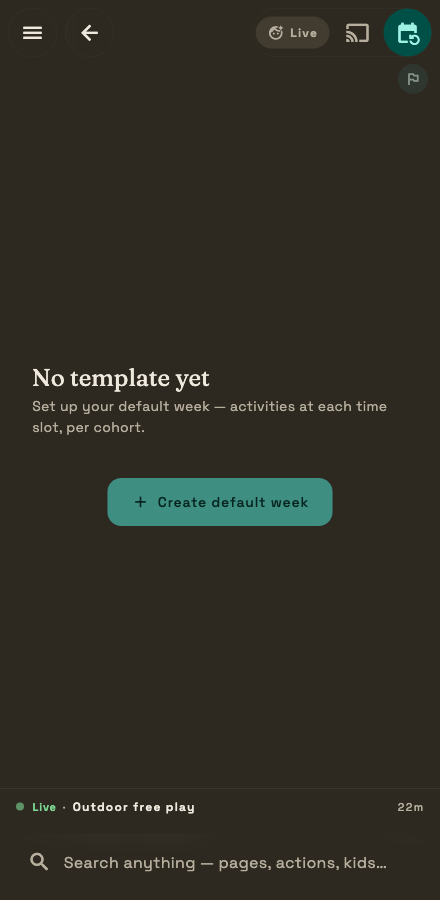
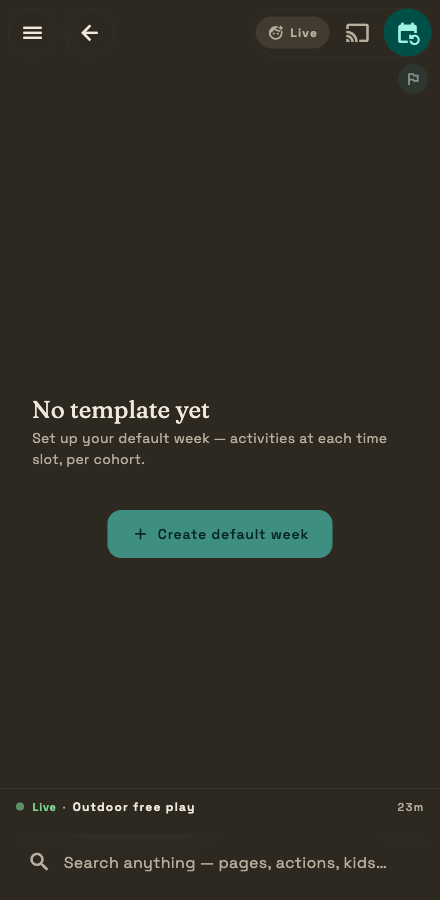
fix(layout): three more screens survive 200% text on a 320dp phone
Six screens overflowed at 320dp x 200%; three do now. Staged by name — the
peer session has an untracked game_view.dart in this shared tree and it is
deliberately not in here.

Done
- AccentEdgeCard: the eyebrow Row could not shrink its label, so the card ran
  past a 320dp phone by 25px on Today and 10px on the growth arc. Flexible, so
  it wraps. One defect in a SHARED widget rather than two screens — which is
  the only reason to keep asking what the chain actually names.
- message_thread: the privacy preamble is a fixed-height child above an
  Expanded list, so at 200% its three-line subtitle grew 188px past the screen
  and the list had nothing left to give. Capped at 40% of the viewport and
  scrollable inside that. NOT auto-hidden: it is a privacy notice, not
  decoration — it just stops being allowed to take the whole phone.
- weekly_template's empty state was a Center that cannot give ground, running
  100px past. FitOrScroll. Third instance of that exact shape today, after the
  routines empty state and the Cues stage: a centred Column sized for a
  comfortable viewport with nowhere to put the excess.

Verify
- Each fix re-swept immediately, so the six-to-three is measured rather than
  assumed: daily and growth_arc fell to the shared-widget fix, message_thread
  and weekly_template to their own.
- Against the peer's new main (80b923ce): analyze clean, 550 plates green,
  1494 unit + widget passing, five guards pass.
[…]

Changed region(s): [[0.0591, 0.4044, 0.7682, 0.6222], [0.5318, 0.4356, 0.8864, 0.4978]]

diff --git a/lib/features/messages/message_thread_screen.dart b/lib/features/messages/message_thread_screen.dart
@@ -144,49 +144,66 @@ class _MessageThreadScreenState extends ConsumerState<MessageThreadScreen> {
             // SizedBox needed.
             // Privacy preamble — collapsible to a single tap-to-expand
             // pill once the user has acknowledged it.
-            Padding(
-              padding: const EdgeInsets.symmetric(horizontal: 16),
-              child: _showPreamble
-                  ? Stack(
-                      children: [
-                        const ContentHeader(
-                          title: 'Messages',
-                          subtitle:
-                              'A direct line between family and staff for '
-                              "this child. Don't share medical specifics "
-                              "or anything you wouldn't put in writing.",
-                          bottomGap: 8,
-                        ),
-                        Positioned(
-                          top: 8,
-                          right: 0,
-                          child: IconButton(
-                            tooltip: 'Hide reminder',
-                            icon: const Icon(
-                              Icons.keyboard_arrow_up,
-                              size: 20,
+            // The preamble is a FIXED-height child above an Expanded list,
+            // so at 200% text its three-line subtitle grew 188px past the
+            // screen and the list — the thing the screen is actually for —
+            // had nothing left to give. Capped at 40% of the viewport and
+            // scrollable inside that: the privacy reminder is not dropped or
+            // auto-hidden (it is a notice, not decoration), it simply stops
+            // being allowed to take the whole phone.
+            ConstrainedBox(
+              constraints: BoxConstraints(
+                maxHeight: MediaQuery.sizeOf(context).height * 0.4,
+              ),
+              child: SingleChildScrollView(
+                child: Padding(
+                  padding: const EdgeInsets.symmetric(horizontal: 16),
+                  child: _showPreamble
+                      ? Stack(
+                          children: [
+                            const ContentHeader(
+                              title: 'Messages',
+                              subtitle:
+                                  'A direct line between family and staff for '
+                                  "this child. Don't share medical specifics "
+                                  "or anything you wouldn't put in writing.",
+                              bottomGap: 8,
                             ),
-                            onPressed: () =>
-                                setState(() => _showPreamble = false),
+                            Positioned(
+                              top: 8,
+                              right: 0,
+                              child: IconButton(
+                                tooltip: 'Hide reminder',
+                                icon: const Icon(
+                                  Icons.keyboard_arrow_up,
+                                  size: 20,
+                                ),
+                                onPressed: () =>
+                                    setState(() => _showPreamble = false),
+                              ),
+                            ),
+                          ],
+                        )
+                      : Padding(
+                          padding: const EdgeInsets.only(top: 8, bottom: 4),
+                          child: Row(
+                            children: [
+                              Text(
+                                'Messages',
+                                style: theme.textTheme.titleLarge,
+                              ),
+                              const Spacer(),
+                              IconButton(
+                                tooltip: 'Show reminder',
+                                icon: const Icon(Icons.info_outline, size: 20),
+                                onPressed: () =>
+                                    setState(() => _showPreamble = true),
+                              ),
+                            ],
                           ),
                         ),
-                      ],
-                    )
-                  : Padding(
-                      padding: const EdgeInsets.only(top: 8, bottom: 4),
-                      child: Row(
-                        children: [
-                          Text('Messages', style: theme.textTheme.titleLarge),
-                          const Spacer(),
-                          IconButton(
-                            tooltip: 'Show reminder',
-                            icon: const Icon(Icons.info_outline, size: 20),
-                            onPressed: () =>
-                                setState(() => _showPreamble = true),
-                          ),
-                        ],
-                      ),
-                    ),
+                ),
+              ),
             ),
             Expanded(
               child: messagesAsync.when(

diff --git a/lib/features/schedule/weekly_template_screen.dart b/lib/features/schedule/weekly_template_screen.dart
@@ -12,6 +12,7 @@ import 'package:differentworld/shared/widgets/destructive_button.dart';
 import 'package:differentworld/shared/widgets/edge_scaffold.dart';
 import 'package:differentworld/shared/widgets/empty_state.dart';
 import 'package:differentworld/shared/widgets/error_state.dart';
+import 'package:differentworld/shared/widgets/fit_or_scroll.dart';
 import 'package:differentworld/shared/widgets/glass_panel.dart';
 import 'package:differentworld/shared/widgets/no_access.dart';
 import 'package:differentworld/shared/widgets/primary_action_button.dart';
@@ -160,34 +161,38 @@ class _NoTemplate extends ConsumerWidget {
 
   @override
   Widget build(BuildContext context, WidgetRef ref) {
-    return Center(
-      child: Padding(
-        padding: const EdgeInsets.all(32),
-        child: Column(
-          mainAxisSize: MainAxisSize.min,
-          children: [
-            const ContentHeader(
-              title: 'No template yet',
-              subtitle:
-                  'Set up your default week — '
-                  'activities at each time slot, per cohort.',
-            ),
-            const SizedBox(height: 24),
-            FilledButton.icon(
-              icon: const Icon(Icons.add),
-              label: const Text('Create default week'),
-              onPressed: () async {
-                final viewer = ref.read(viewerProvider);
-                final db = await ref.read(appDatabaseProvider.future);
-                if (!context.mounted) return;
-                await db.weeklyTemplateDao.createTemplate(
-                  spaceId: spaceId,
-                  createdBy: viewer.memberId,
-                );
-              },
-            ),
-          ],
-        ),
+    // FitOrScroll, not Center: a Center cannot give ground, so at 200% text
+    // this empty state ran 100px past a 320dp phone. Third instance of the
+    // same shape today (the routines empty state and the cues stage were the
+    // others) — a centred Column sized for a comfortable viewport, with
+    // nowhere to put the excess when the text grows. It still centres
+    // whenever it fits, which is every normal phone.
+    return FitOrScroll(
+      padding: const EdgeInsets.all(32),
+      child: Column(
+        mainAxisSize: MainAxisSize.min,
+        children: [
+          const ContentHeader(
+            title: 'No template yet',
+            subtitle:
+                'Set up your default week — '
+                'activities at each time slot, per cohort.',
+          ),
+          const SizedBox(height: 24),
+          FilledButton.icon(
+            icon: const Icon(Icons.add),
+            label: const Text('Create default week'),
+            onPressed: () async {
+              final viewer = ref.read(viewerProvider);
+              final db = await ref.read(appDatabaseProvider.future);
+              if (!context.mounted) return;
+              await db.weeklyTemplateDao.createTemplate(
+                spaceId: spaceId,
+                createdBy: viewer.memberId,
+              );
+            },
+          ),
+        ],
       ),
     );
   }

diff --git a/lib/shared/widgets/accent_edge_card.dart b/lib/shared/widgets/accent_edge_card.dart
@@ -66,7 +66,12 @@ class AccentEdgeCard extends StatelessWidget {
                 children: [
                   Icon(icon, size: 18, color: accent),
                   const SizedBox(width: 6),
-                  Text(label, style: eyebrowStyle),
+                  // Flexible so the eyebrow wraps instead of running out of
+                  // the card. A Row cannot shrink a Text below its natural
+                  // width, so at 200% text this overran a 320dp phone — by
+                  // 25px on Today and 10px on the growth arc, which is one
+                  // defect in a SHARED widget rather than two screens.
+                  Flexible(child: Text(label, style: eyebrowStyle)),
                 ],
               )
             else
